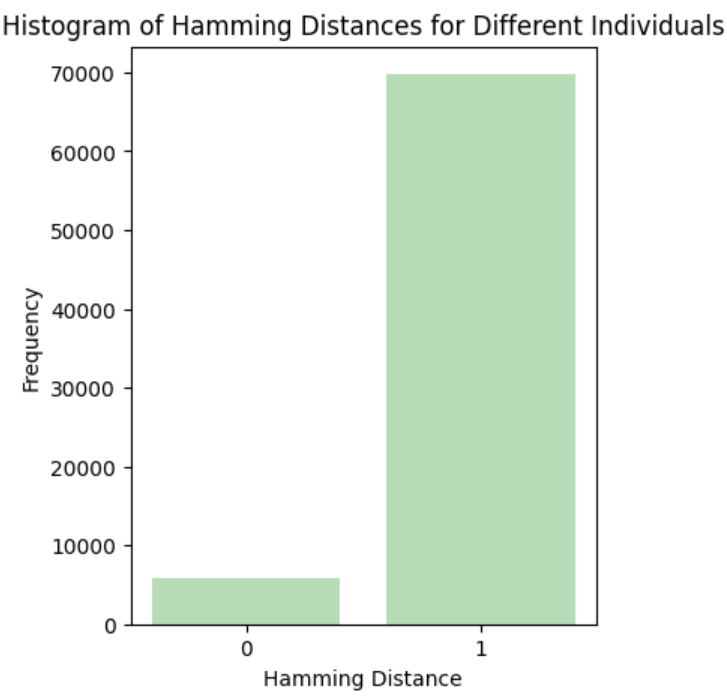
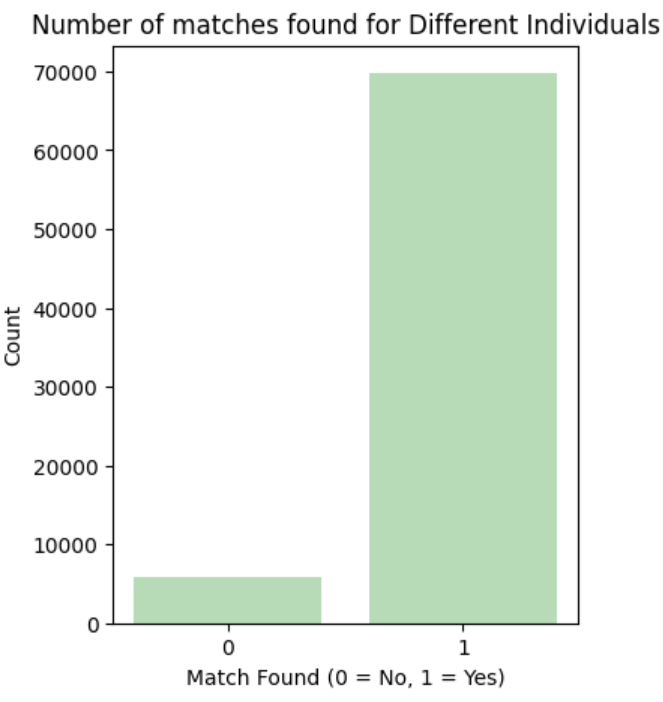
corrections emandées par Prof Vaudenay

Changed region(s): [[0.0, 0.0, 0.9955, 0.99]]

diff --git a/report/parts/Fuzzy_Hashing.tex b/report/parts/Fuzzy_Hashing.tex
@@ -80,10 +80,10 @@ After the finger images are processed through the pipeline described in Pipeline
 
 In the context of a simplified scenario where the hash length parameter (\(m\)) is set to \(1\), implying the generation of a single-index hash, and assuming a randomly chosen key for the \textit{preHash} algorithm, along with \(k\) representing a uniformly distributed random index, the probability that the \textit{preHash} operation yields the same index for two different fixed inputs \(X\) and \(Y\) can be mathematically delineated as follows:
 
+
 \begin{equation} \label{eq:preHash1}
     \begin{aligned}
-        Pr[preHash_{key}^1(X) = preHash_{key}^1(Y)] &= \sum_{i > 0} Pr[preHash_{key}^1(X)]\\
-        &= preHash_{key}^1(Y)\\
+        Pr[preHash_{key}^1(X) = preHash_{key}^1(Y)] &= \sum_{i > 0} Pr[preHash_{key}^1(X) = preHash_{key}^1(Y) = i]\\
         &= \sum_{i > 0} Pr[X_k = Y_k = 0]^{i - 1} Pr[X_k = Y_k = 1]\\
         &= \frac{Pr[X_k = Y_k = 1]}{1 - Pr[X_k = Y_k = 0]}\\
         &= \frac{HW(X \land Y)}{HW(X) + HW(Y) - HW(X \land Y)}\\
@@ -98,34 +98,99 @@ It is noticed that there is a direct link with the Miura matching score that is 
 \begin{equation} \label{eq:preHash2}
     \begin{aligned}
         Pr[preHash_{key}^1(\bar{X}) = preHash_{key}^1(\bar{Y})] &= \frac{Pr[\bar{X}_k = \bar{Y}_k = 1]}{1 - Pr[\bar{X}_k = \bar{Y}_k = 0]}\\
-        &= \frac{\frac{Pr[X_k = 1] + Pr[Y_k = 1]}{2} - \frac{1}{2}Pr[\bar{X}_l \neq \bar{Y}_k]}{\frac{Pr[X_k = 1] + Pr[Y_k = 1]}{2} + \frac{1}{2}Pr[\bar{X}_l \neq \bar{Y}_k]}\\
+        &= \frac{\frac{Pr[X_k = 1] + Pr[Y_k = 1]}{2} - \frac{1}{2}Pr[\bar{X}_k \neq \bar{Y}_k]}{\frac{Pr[X_k = 1] + Pr[Y_k = 1]}{2} + \frac{1}{2}Pr[\bar{X}_k \neq \bar{Y}_k]}\\
     \end{aligned}
 \end{equation}
 
-The following approximations are made, inspired by equations p (\ref{eq:proba}) and $\delta$ (\ref{eq:delta}):
+The following approximations are made, inspired by equations \(p\) (\ref{eq:p}) and $\delta$ (\ref{eq:delta}):
 
 \begin{equation}
-    E\left(\frac{\frac{Pr[X_k = 1] + Pr[Y_k = 1]}{2} - \frac{1}{2}Pr[\bar{X}_l \neq \bar{Y}_k]}{\frac{Pr[X_k = 1] + Pr[Y_k = 1]}{2} + \frac{1}{2}Pr[\bar{X}_l \neq \bar{Y}_k]}\right) \approx \frac{p - \frac{\delta}{2}}{p + \frac{\delta}{2}}
+    \mathbb{E}\left(\frac{\frac{Pr[X_k = 1] + Pr[Y_k = 1]}{2} - \frac{1}{2}Pr[\bar{X}_k \neq \bar{Y}_k]}{\frac{Pr[X_k = 1] + Pr[Y_k = 1]}{2} + \frac{1}{2}Pr[\bar{X}_k \neq \bar{Y}_k]}\right) \approx \frac{p - \frac{\delta}{2}}{p + \frac{\delta}{2}}
 \end{equation}
 
-The core of this approximation revolves around the expectation formula, which integrates probabilities of feature presence \(Pr[X_k=1]+Pr[Y_k=1]\) and the likelihood of discrepancies between \(X\) and \(Y\), \(Pr[\bar{X}_l \neq \bar{Y}_k]\). This formula essentially aims to quantify the similarity between two biometric samples by considering both the concurrence of features and the instances where they diverge.
+The core of this approximation revolves around the expectation formula, which integrates probabilities of feature presence \(Pr[X_k=1]+Pr[Y_k=1]\) and the likelihood of discrepancies between \(X\) and \(Y\), \(Pr[\bar{X}_k \neq \bar{Y}_k]\). This formula essentially aims to quantify the similarity between two biometric samples by considering both the concurrence of features and the instances where they diverge.
+
+To achieve a more accurate approximation of the expected value of equation \ref{eq:preHash2}, we define the following parameters and employ a Taylor series expansion of the function \(f(A,B,C) = \frac{A + B - C}{A + B + C}\) around the point \((p, p, \delta)\). This method allows us to incorporate not only the means but also the variances and covariances of the variables involved.
+
+\[
+A = \frac{HW(\bar{X})}{n}, \quad B = \frac{HW(\bar{Y})}{n}, \quad C = d_H(\bar{X}, \bar{Y})
+\]
+where \(HW(\cdot)\) denotes the Hamming weight and \(d_H(\cdot, \cdot)\) represents the Hamming distance. Given these definitions, we know the expected values and variances from Section~\ref{sec:bio_setting} :
+\[
+    \mathbb{E}(A) = \mathbb{E}(B) = p^\text{obs}, \quad \mathbb{E}(C) = \delta^\text{obs}, \quad \text{Var}(A) = \text{Var}(B) = {\sigma^\text{obs}_p}^2, \quad \text{Var}(C) = {\sigma^\text{obs}_\delta}^2
+\]
+
+Next, we perform a Taylor series expansion of \(f(A,B,C)\) up to the second order around the point \((p, p, \delta)\). The first-order partial derivatives are calculated as follows:
+\[
+f'_A = \frac{2C}{(A + B + C)^2}, \quad f'_B = \frac{2C}{(A + B + C)^2}, \quad f'_C = \frac{-2(A + B)}{(A + B + C)^2}
+\]
+
+The second-order partial derivatives are:
+\[
+f''_{AA} = f''_{BB} = f''_{AB} = \frac{-4C}{(A + B + C)^3}, \quad f''_{CC} = \frac{4(A + B)}{(A + B + C)^3}, \quad f''_{AC} = f''_{BC} = \frac{-2(A + B - C)}{(A + B + C)^3}
+\]
+
+By substituting \(A = p\), \(B = p\), and \(C = \delta\) into these second order derivatives, we obtain:
+
+\[
+f''_{AA} = f''_{BB} = f''_{AB} = \frac{-4\delta}{(2p + \delta)^3}, \quad f''_{CC} = \frac{8p}{(2p + \delta)^3}, \quad f''_{AC} = f''_{BC} = \frac{2(2p - \delta)}{(2p + \delta)^3}
+\]
+
+Finally, the second order Taylor expansion of \(f(A,B,C)\) around \((p,p,\delta)\) is given by:
+\[
+f(A,B,C) \approx f(p,p,\delta) + f'_A(p,p,\delta)(A - p) + f'_B(p,p,\delta)(B - p) + f'_C(p,p,\delta)(C - \delta)
+\]
+\[
++ \frac{1}{2} \left[ f''_{AA}(p,p,\delta)(A - p)^2 + f''_{BB}(p,p,\delta)(B - p)^2 + f''_{CC}(p,p,\delta)(C - \delta)^2 \right.
+\]
+\[
++ 2f''_{AB}(p,p,\delta)(A - p)(B - p) + 2f''_{AC}(p,p,\delta)(A - p)(C - \delta) + 2f''_{BC}(p,p,\delta)(B - p)(C - \delta)
+\]\\
+To approximate the expected value \( E(f(A,B,C)) \), we use the following relations:
+\[
+    \mathbb{E}(A - p) = 0, \quad \mathbb{E}(B - p) = 0, \quad \mathbb{E}(C - \delta) = 0
+\]
+\[
+    \text{Var}(A) = \text{Var}(B) = \mathbb{E}((A - p)²), \quad \text{Var}(C) = \mathbb{E}((C - \delta)²)
+\]
+\[
+    \text{Cov}(A, B) = \mathbb{E}((A - p)(B - p)), \quad \text{Cov}(B, C) = \mathbb{E}((B - p)(C - \delta))
+\]
+\[
+    \text{Cov}(A, C) = \mathbb{E}((A - p)(C - \delta))
+\]
+
+And we hence have:
+\[
+    \mathbb{E}(f(A,B,C)) \approx \frac{p - \frac{\delta}{2}}{p + \frac{\delta}{2}} + \frac{1}{2} \left[ f''_{AA}(p,p,\delta)\text{Var}(A) + f''_{BB}(p,p,\delta)\text{Var}(B) + f''_{CC}(p,p,\delta)\text{Var}(C) \right.
+\]
+\[
++ 2f''_{AB}(p,p,\delta) \text{Cov}(A,B) + 2f''_{AC}(p,p,\delta) \text{Cov}(A,C) + 2f''_{BC}(p,p,\delta) \text{Cov}(B,C)]
+\]\\
+Let us denote that \(\mathcal{F}(p, \delta, \sigma_p, \sigma_\delta) = \mathbb{E}(f(A,B,C))\). Simplifying with our values and notations we get:
+\[
+    \mathcal{F}(p, \delta, \sigma_p, \sigma_\delta) \approx \frac{p - \frac{\delta}{2}}{p + \frac{\delta}{2}} + \frac{1}{2} \left[ \frac{-4\delta}{(2p + \delta)^3}\cdot{\sigma^\text{obs}_p}² + \frac{-4\delta}{(2p + \delta)^3}\cdot{\sigma^\text{obs}_p}² + \frac{8p}{(2p + \delta)^3}\cdot{\sigma^\text{obs}_\delta}² \right.
+\]
+\[
++ 2\cdot\frac{-4\delta}{(2p + \delta)^3}\cdot\text{Cov}(A,B) + 2\cdot\frac{2(2p - \delta)}{(2p + \delta)^3}\cdot\text{Cov}(A,C) + 2\cdot\frac{2(2p - \delta)}{(2p + \delta)^3}\cdot\text{Cov}(B,C)]
+\]\\
 
 Hence for (\(X\), \(Y\)) random,
-
 \begin{equation}
     \label{eq:mu_leq}
-    Pr[preHash_{key}^1(offset_X * X) = preHash_{key}^1(offset_Y * Y)] \leq \frac{p - \frac{\delta}{2}}{p + \frac{\delta}{2}}
+    Pr[preHash_{key}^1(offset_X * X) = preHash_{key}^1(offset_Y * Y)] \leq \mathcal{F}(p, \delta, \sigma_p, \sigma_\delta)
 \end{equation}
-
-where equality is reached for the optimal offset translations. 
+where equality is reached for the optimal offset translations.\\
 
 Depending on the distribution of (\(X\), \(Y\)), it is denoted
 
 \begin{equation} \label{eq:mu}
-    \mu = \frac{p - \frac{\delta}{2}}{p + \frac{\delta}{2}}
+    \mu = \mathcal{F}(p, \delta, \sigma_p, \sigma_\delta)
 \end{equation}
 
+
 The following figures are provided:
+NEED TO CHANGE THESE!!
 
 \begin{table}[H]
     \centering
@@ -147,7 +212,6 @@ Finally, it is observed that
 
 where equality is reached for the optimal offset translations.
 
-%This includes determining the upper limits for the probabilities of similarity between different finger veins processed through the same fuzzy hashing parameters. 
 \subsection{Experimental Derivation of the Probabilities \(\mu_{\text{same}}^{\text{obs}}, \mu_{\text{diff}}^{\text{obs}}, \mu_{\text{indep}}^{\text{obs}}\)}
 
 In Section~\ref{sec:mu}, we have laid out the mathematical framework that defines the upper bound \(\mu\). This probability is crucial in our fuzzy hashing approach, as it quantifies the matching likelihood after applying the optimal offset translations to the biometric captures. The application of these optimal offsets is an important preprocessing step before hashing the dataset, ensuring that the biometric features are accurately aligned for comparison.
@@ -188,14 +252,14 @@ For \(\mu_{\text{same}}^{obs}\) and \(\mu_{\text{diff}}^{obs}\), our experimenta
             \begin{minipage}[b]{0.48\linewidth}
                 \centering
                 \includegraphics[width=\linewidth,height=7cm,keepaspectratio]{latex-img/mu_same.png}
-                \caption{Hamming Distances for Same, Aligned Biometric Samples with Single Index PreHashing}
+                \caption{Count of the number of matches for Same, Aligned Biometric Samples with Single Index PreHashing}
                 \label{mu_same}
             \end{minipage}
             \hfill
             \begin{minipage}[b]{0.48\linewidth}
                 \centering
                 \includegraphics[width=\linewidth,height=7cm,keepaspectratio]{latex-img/mu_diff.png}
-                \caption{Hamming Distances for Different, Aligned Biometric Samples with Single Index PreHashing}
+                \caption{Count of the number of matches for Different, Aligned Biometric Samples with Single Index PreHashing}
                 \label{mu_diff}
             \end{minipage}
         \end{figure}

diff --git a/report/parts/Compressed_Fuzzy_Hashing.tex b/report/parts/Compressed_Fuzzy_Hashing.tex
@@ -283,14 +283,14 @@ Utilizing these derived lookup tables, alongside our established PreHash functio
         \begin{minipage}[b]{0.48\linewidth}
             \centering
             \includegraphics[width=\linewidth,height=7cm,keepaspectratio]{latex-img/d1same.png}
-            \caption{Hamming Distances for Same, Aligned Biometric Samples with Single Index Hashing and Binary PostHash Indices}
+            \caption{Count of the number of matches for Same, Aligned Biometric Samples with Single Index Hashing and Binary PostHash Indices}
             \label{mu_same}
         \end{minipage}
         \hfill
         \begin{minipage}[b]{0.48\linewidth}
             \centering
             \includegraphics[width=\linewidth,height=7cm,keepaspectratio]{latex-img/d1diff.png}
-            \caption{Hamming Distances for Different, Aligned Biometric Samples with Single Index Hashing and Binary PostHash Indices}
+            \caption{Count of the number of matches for Different, Aligned Biometric Samples with Single Index Hashing and Binary PostHash Indices}
             \label{mu_diff}
         \end{minipage}
     \end{figure}
@@ -306,14 +306,14 @@ Utilizing these derived lookup tables, alongside our established PreHash functio
         \begin{minipage}[b]{0.48\linewidth}
             \centering
             \includegraphics[width=\linewidth,height=7cm,keepaspectratio]{latex-img/d2same.png}
-            \caption{Hamming Distances for Same, Aligned Biometric Samples with Single Index Hashing and Quaternary PostHash Indices}
+            \caption{Count of the number of matches for Same, Aligned Biometric Samples with Single Index Hashing and Quaternary PostHash Indices}
             \label{mu_same}
         \end{minipage}
         \hfill
         \begin{minipage}[b]{0.48\linewidth}
             \centering
             \includegraphics[width=\linewidth,height=7cm,keepaspectratio]{latex-img/d2diff.png}
-            \caption{Hamming Distances for Different, Aligned Biometric Samples with Single Index Hashing and Quaternary PostHash Indices}
+            \caption{Count of the number of matches for Different, Aligned Biometric Samples with Single Index Hashing and Quaternary PostHash Indices}
             \label{mu_diff}
         \end{minipage}
     \end{figure}
@@ -329,14 +329,14 @@ Utilizing these derived lookup tables, alongside our established PreHash functio
         \begin{minipage}[b]{0.48\linewidth}
             \centering
             \includegraphics[width=\linewidth,height=7cm,keepaspectratio]{latex-img/d3same.png}
-            \caption{Hamming Distances for Same, Aligned Biometric Samples with Single Index Hashing and Octal PostHash Indices}
+            \caption{Count of the number of matches for Same, Aligned Biometric Samples with Single Index Hashing and Octal PostHash Indices}
             \label{mu_same}
         \end{minipage}
         \hfill
         \begin{minipage}[b]{0.48\linewidth}
             \centering
             \includegraphics[width=\linewidth,height=7cm,keepaspectratio]{latex-img/d3diff.png}
-            \caption{Hamming Distances for Different, Aligned Biometric Samples with Single Index Hashing and Octal PostHash Indices}
+            \caption{Count of the number of matches for Different, Aligned Biometric Samples with Single Index Hashing and Octal PostHash Indices}
             \label{mu_diff}
         \end{minipage}
     \end{figure}
@@ -352,14 +352,14 @@ Utilizing these derived lookup tables, alongside our established PreHash functio
         \begin{minipage}[b]{0.48\linewidth}
             \centering
             \includegraphics[width=\linewidth,height=7cm,keepaspectratio]{latex-img/d4same.png}
-            \caption{Hamming Distances for Same, Aligned Biometric Samples with Single Index Hashing and Hexa-Decimal PostHash Indices}
+            \caption{Count of the number of matches for Same, Aligned Biometric Samples with Single Index Hashing and Hexa-Decimal PostHash Indices}
             \label{mu_same}
         \end{minipage}
         \hfill
         \begin{minipage}[b]{0.48\linewidth}
             \centering
             \includegraphics[width=\linewidth,height=7cm,keepaspectratio]{latex-img/d4diff.png}
-            \caption{Hamming Distances for Different, Aligned Biometric Samples with Single Index Hashing and Hexa-Decimal PostHash Indices}
+            \caption{Count of the number of matches for Different, Aligned Biometric Samples with Single Index Hashing and Hexa-Decimal PostHash Indices}
             \label{mu_diff}
         \end{minipage}
     \end{figure}

diff --git a/report/parts/Biometric_Setting.tex b/report/parts/Biometric_Setting.tex
@@ -1,5 +1,6 @@
 \include{Introduction.tex}
 \section{Biometric Setting}
+\label{sec:bio_setting}
 This section provides a comprehensive overview of the mathematical and technical aspects involved in fingervein matching, which is essential for comprehending the subsequent discussions in this paper. Additionally, insights into the process of obtaining these equations and statements will be provided, evaluating their relevance and implications within the context of the research. 
 
 \subsection{Biometric Data and Similarity Scores}
